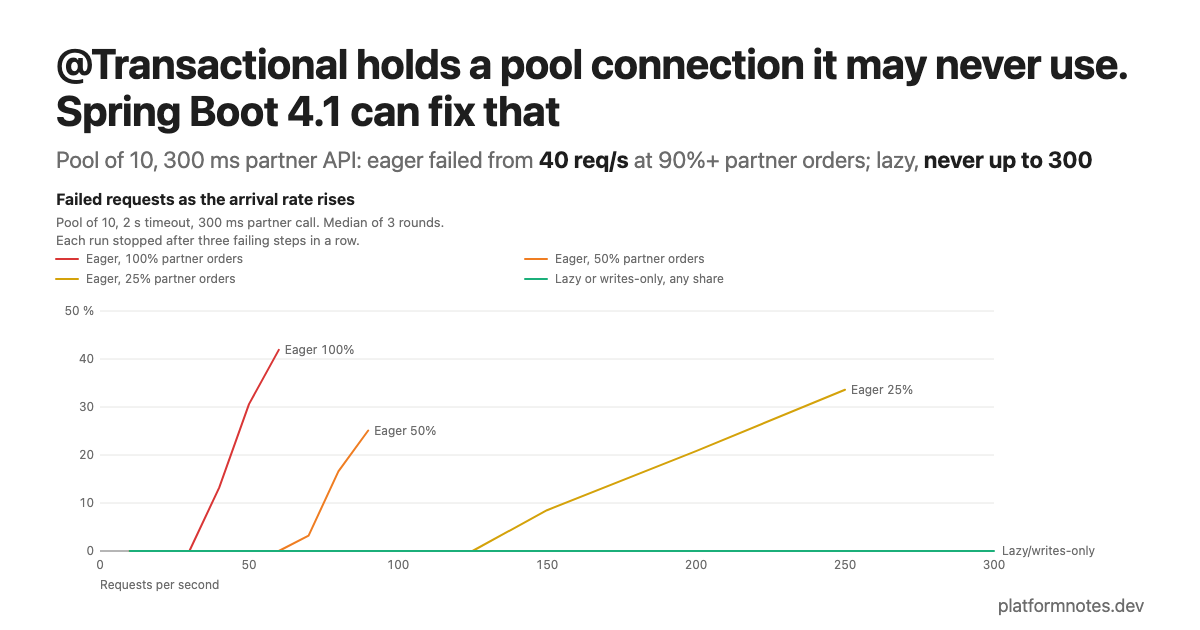
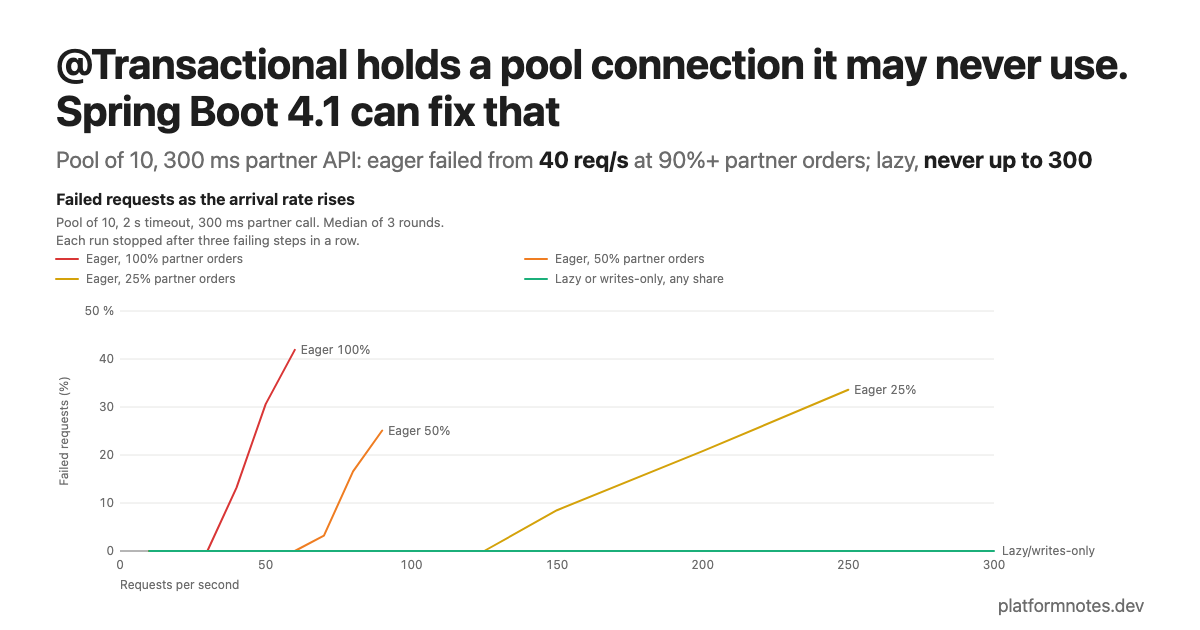
Line charts can show a y-axis title; the transaction post's three charts get one
lines.js draws y.title rotated beside the axis when a chart sets it,
with a wider left margin; charts without one (the AOT cache post's)
keep the old layout.

diff --git a/assets/js/charts/lines.js b/assets/js/charts/lines.js
@@ -3,12 +3,14 @@
 //  series: [{name, short (end label and tooltip), cls: "s1"|"s2"|"s3"|"rest", dash?, color?, points: [[x, y], ...]}]}.
 // An optional color overrides the class color for the line and its legend swatch, for a chart that needs more
 // than the three series slots or a color with a meaning (a severity ramp, say).
+// y.title, when set, is drawn as a rotated y-axis title (y.label is only a unit hint and stays undrawn), with a
+// wider left margin to make room; charts without one keep the old layout.
 // One y-axis only; values above y.max are clipped to the top edge. Each line is labelled at its end and in
 // the legend, so identity never rests on color alone, and a crosshair tooltip lists every series at a point.
 CPCharts.register("lines", (el, data, narrow) => {
   const { tooltip, svgFor, text } = CPCharts;
   const d = data[el.dataset.key];
-  const W = el.clientWidth, LEFT = 44, RIGHT = narrow ? 12 : 150;
+  const W = el.clientWidth, LEFT = d.y.title ? 64 : 44, RIGHT = narrow ? 12 : 150;
   const legendRows = narrow ? d.series.length : Math.ceil(d.series.length / 2);
   const TOP = 48 + 18 * d.sub.length + 20 * legendRows, PLOT = narrow ? 200 : 240, H = TOP + PLOT + 44;
   const x = (d.x.scale === "log" ? d3.scaleLog() : d3.scaleLinear()).domain([d.x.min, d.x.max]).range([LEFT, W - RIGHT]);
@@ -40,6 +42,10 @@ CPCharts.register("lines", (el, data, narrow) => {
     text(svg, x(t), TOP + PLOT + 18, fmt(t), "cp-t-tick").attr("text-anchor", "middle");
   });
   text(svg, LEFT, TOP + PLOT + 38, d.x.label, "cp-t-tick");
+  if (d.y.title) {
+    text(svg, 0, 0, d.y.title, "cp-t-tick").attr("text-anchor", "middle")
+      .attr("transform", `translate(12,${TOP + PLOT / 2}) rotate(-90)`);
+  }
 
   const line = d3.line().x((p) => x(p[0])).y((p) => y(clip(p[1])));
   // Draw the context series first, so colored lines sit on top of it.

diff --git a/benchmarks/tx-pool/make_charts.py b/benchmarks/tx-pool/make_charts.py
@@ -70,7 +70,7 @@ def main():
                 f"{hold['db_median_at_100_plus']:.1f} ms per own-stock order, weighted by the share)."],
         "x": {"label": "Orders sent to the partner (%)", "scale": "linear", "min": 25, "max": 100,
               "ticks": [25, 50, 75, 90, 100]},
-        "y": {"label": "req/s", "min": 0, "max": 300, "ticks": [0, 50, 100, 150, 200, 250, 300], "unit": "req/s"},
+        "y": {"label": "req/s", "title": "First failing step (req/s)", "min": 0, "max": 300, "ticks": [0, 50, 100, 150, 200, 250, 300], "unit": "req/s"},
         "series": [
             {"name": "Eager: first failing step", "short": "Eager", "cls": "s1",
              "points": [[round(100 * sh), med_bp[sh]] for sh in sorted(SHARES)]},
@@ -84,7 +84,7 @@ def main():
         "title": "Failed requests as the arrival rate rises",
         "sub": ["Pool of 10, 2 s timeout, 300 ms partner call. Median of 3 rounds.",
                 "Each run stopped after three failing steps in a row."],
-        "x": X, "y": {"label": "% failed", "min": 0, "max": 50, "ticks": [0, 10, 20, 30, 40, 50], "unit": "%"},
+        "x": X, "y": {"label": "% failed", "title": "Failed requests (%)", "min": 0, "max": 50, "ticks": [0, 10, 20, 30, 40, 50], "unit": "%"},
         "series": [
             {"name": "Eager, 100% partner orders", "short": "Eager 100%", "cls": "s1", "color": RED, "points": series(by, "eager", 1.0, pct)},
             {"name": "Eager, 50% partner orders", "short": "Eager 50%", "cls": "s2", "color": ORANGE, "points": series(by, "eager", 0.5, pct)},
@@ -99,7 +99,7 @@ def main():
         "title": "Own-stock orders wait for a connection",
         "sub": ["p95 of the own-stock orders, with half the orders sent to the partner. Median of 3 rounds.",
                 f"Eager leaves the chart at {med_bp[0.5]:.0f} req/s: from there it is the 2 s pool timeout."],
-        "x": X, "y": {"label": "p95 (ms)", "min": 0, "max": 200, "ticks": [0, 50, 100, 150, 200], "unit": "ms"},
+        "x": X, "y": {"label": "p95 (ms)", "title": "Own-stock order p95 (ms)", "min": 0, "max": 200, "ticks": [0, 50, 100, 150, 200], "unit": "ms"},
         "series": [
             {"name": "Eager (default)", "short": "Eager", "cls": "s1", "points": lat["eager"]},
             {"name": "Lazy (connection-fetch=lazy)", "short": "Lazy", "cls": "s2", "points": lat["lazy"]},
